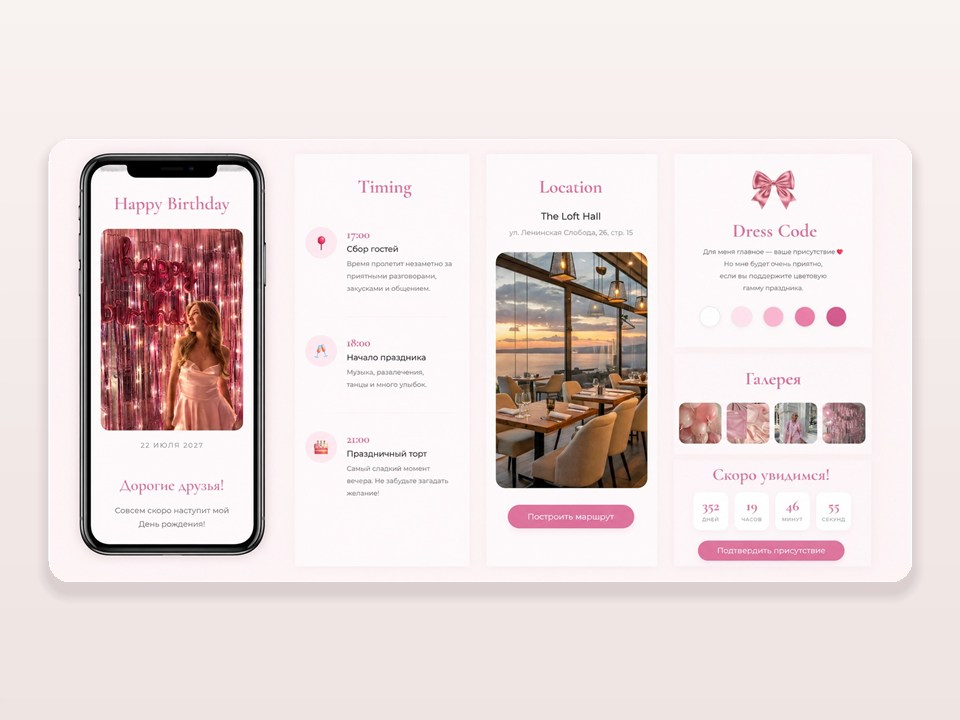
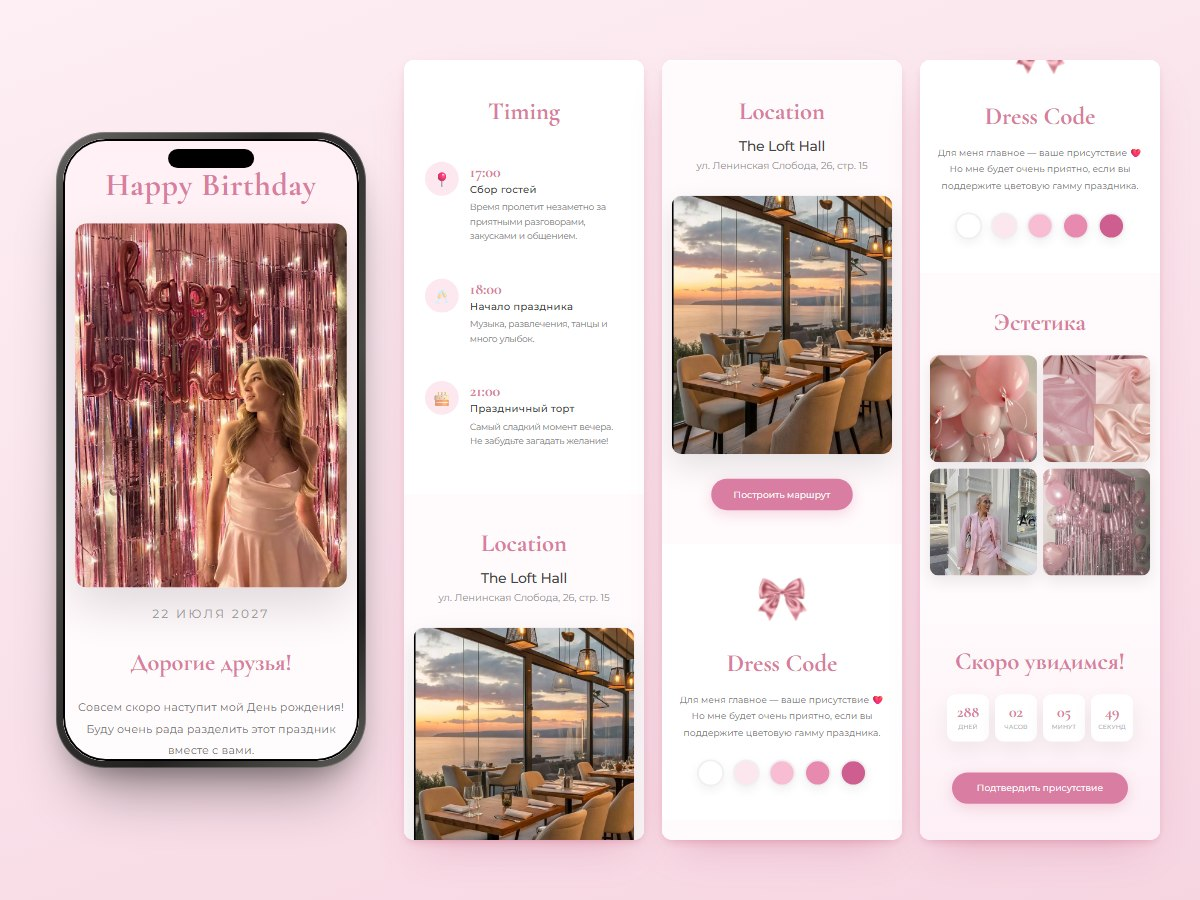
Обложки шаблонов в стиле Birthday классика, hero на весь экран, демо «Операция день рождения» в веере

diff --git a/tools/mockup.html b/tools/mockup.html
@@ -1,0 +1,40 @@
+<!doctype html>
+<html lang="ru"><head><meta charset="utf-8"><title>mockup</title>
+<style>
+*{margin:0;box-sizing:border-box}
+html,body{width:1200px;height:900px;overflow:hidden}
+body{background:radial-gradient(70% 60% at 50% 45%,var(--c2),var(--c1));position:relative;font-family:sans-serif}
+.glow{position:absolute;left:50%;top:50%;width:760px;height:760px;transform:translate(-50%,-50%);border-radius:50%;background:var(--c3);opacity:.55;filter:blur(90px)}
+.ph{position:absolute;width:var(--w);aspect-ratio:390/800;padding:7px;border-radius:15.7%/7.7%;
+ background:linear-gradient(145deg,#6c6a66,#2b2a28 18%,#4a4845 50%,#232220 82%,#5e5c58);
+ box-shadow:inset 0 0 0 1px rgba(255,255,255,.22),0 50px 70px -20px rgba(0,0,0,.45),0 18px 30px -10px rgba(0,0,0,.3)}
+.sc{position:relative;width:100%;height:100%;overflow:hidden;border-radius:14.4%/7%;background:#000}
+.sc::before{content:"";position:absolute;z-index:3;top:1.6%;left:50%;width:29%;height:3.1%;transform:translateX(-50%);border-radius:99px;background:#000}
+.sc::after{content:"";position:absolute;inset:0;z-index:3;border-radius:inherit;box-shadow:inset 0 0 0 2px #000;pointer-events:none}
+iframe{position:absolute;top:0;left:0;border:0;width:390px;height:800px;transform-origin:0 0;background:#fff}
+#p1{--w:250px;left:178px;top:150px;transform:rotate(-7deg);z-index:1}
+#p2{--w:330px;left:435px;top:70px;z-index:3}
+#p3{--w:250px;left:772px;top:150px;transform:rotate(7deg);z-index:1}
+</style></head><body>
+<div class="glow"></div>
+<div class="ph" id="p1"><div class="sc"><iframe></iframe></div></div>
+<div class="ph" id="p2"><div class="sc"><iframe></iframe></div></div>
+<div class="ph" id="p3"><div class="sc"><iframe></iframe></div></div>
+<script>
+const q=new URLSearchParams(location.search);
+const r=document.documentElement.style;
+r.setProperty('--c1',q.get('c1')||'#f3dcd6');r.setProperty('--c2',q.get('c2')||'#fbefeb');r.setProperty('--c3',q.get('c3')||'#e9b6aa');
+const url=q.get('d'), sc=(q.get('s')||'0;900;1800').split(';');
+['p1','p2','p3'].forEach((id,i)=>{
+  const sc_el=document.querySelector('#'+id+' .sc'), f=sc_el.querySelector('iframe');
+  const k=sc_el.clientWidth/390; f.style.transform='scale('+k+')';
+  f.style.height=(sc_el.clientHeight/k)+'px';
+  f.src='../'+url+'index.html';
+  f.onload=()=>{ const w=f.contentWindow, d=f.contentDocument;
+    d.documentElement.style.scrollBehavior='auto'; d.body.style.scrollBehavior='auto';
+    const target=[sc[1],sc[0],sc[2]][i];
+    const y=()=>/^\d+$/.test(target)?+target:d.querySelector(target).getBoundingClientRect().top+w.scrollY-8;
+    let t=0; const step=()=>{ const Y=y(); t=Math.min(Y,t+300); w.scrollTo(0,t); if(t<Y) setTimeout(step,250); else setTimeout(()=>w.scrollTo(0,Y),2500)}; setTimeout(step,300);
+  };
+});
+</script></body></html>

diff --git a/tools/mockup2.html b/tools/mockup2.html
@@ -1,0 +1,37 @@
+<!doctype html>
+<html lang="ru"><head><meta charset="utf-8"><title>mockup2</title>
+<style>
+*{margin:0;box-sizing:border-box}
+html,body{width:1200px;height:900px;overflow:hidden}
+body{background:linear-gradient(160deg,var(--c2),var(--c1));position:relative}
+.ph{position:absolute;left:56px;top:132px;width:310px;aspect-ratio:390/800;padding:7px;border-radius:15.7%/7.7%;
+ background:linear-gradient(145deg,#6c6a66,#2b2a28 18%,#4a4845 50%,#232220 82%,#5e5c58);
+ box-shadow:inset 0 0 0 1px rgba(255,255,255,.22),0 40px 60px -24px rgba(0,0,0,.45),0 14px 24px -10px rgba(0,0,0,.25)}
+.sc{position:relative;width:100%;height:100%;overflow:hidden;border-radius:14.4%/7%;background:#000}
+.sc::before{content:"";position:absolute;z-index:3;top:1.6%;left:50%;width:29%;height:3.1%;transform:translateX(-50%);border-radius:99px;background:#000}
+.sc::after{content:"";position:absolute;inset:0;z-index:3;border-radius:inherit;box-shadow:inset 0 0 0 2px #000;pointer-events:none}
+.pn{position:absolute;top:60px;width:240px;height:780px;overflow:hidden;border-radius:10px;background:#fff;
+ box-shadow:0 1px 0 rgba(255,255,255,.6) inset,0 18px 40px -18px var(--sh),0 4px 10px -4px var(--sh)}
+iframe{position:absolute;top:0;left:0;border:0;width:390px;transform-origin:0 0;background:#fff}
+#p0{} #p1{left:404px} #p2{left:662px} #p3{left:920px}
+</style></head><body>
+<div class="ph" id="p0"><div class="sc"><iframe></iframe></div></div>
+<div class="pn" id="p1"><iframe></iframe></div>
+<div class="pn" id="p2"><iframe></iframe></div>
+<div class="pn" id="p3"><iframe></iframe></div>
+<script>
+const q=new URLSearchParams(location.search), r=document.documentElement.style;
+r.setProperty('--c1',q.get('c1'));r.setProperty('--c2',q.get('c2'));r.setProperty('--sh',q.get('c3'));
+const url=q.get('d'), sc=q.get('s').split(';');
+['p0','p1','p2','p3'].forEach((id,i)=>{
+  const box=document.getElementById(id), f=box.querySelector('iframe'), host=i?box:box.querySelector('.sc');
+  const k=host.clientWidth/390; f.style.transform='scale('+k+')'; f.style.height=(host.clientHeight/k)+'px';
+  f.src='../'+url+'index.html';
+  f.onload=()=>{ const w=f.contentWindow, d=f.contentDocument;
+    d.documentElement.style.scrollBehavior='auto'; d.body.style.scrollBehavior='auto';
+    const tg=sc[i];
+    const y=()=>/^\d+$/.test(tg)?+tg:d.querySelector(tg).getBoundingClientRect().top+w.scrollY-4;
+    let t=0; const step=()=>{ const Y=y(); t=Math.min(Y,t+300); w.scrollTo(0,t); if(t<Y) setTimeout(step,250); else setTimeout(()=>w.scrollTo(0,Y),2500)}; setTimeout(step,300);
+  };
+});
+</script></body></html>

diff --git a/css/style.css b/css/style.css
@@ -647,7 +647,7 @@ section{
     width:100%;
     height:100%;
     object-fit:cover;
-    object-position:left center;
+    object-position:center;
     transition:transform .8s cubic-bezier(.2,.7,.2,1);
 }
 
@@ -1753,6 +1753,43 @@ html{ scroll-padding-top:80px; }
 .hero-stamp{
     left:2%;
     bottom:2%;
+}
+
+/* ---------- Hero: на компьютере целиком в один экран ---------- */
+
+@media (min-width:993px){
+
+    .hero{
+        min-height:100vh;
+        min-height:100svh;
+        display:flex;
+        align-items:center;
+        padding:96px 0 32px;
+    }
+
+    .hero > .container{ width:min(1200px,calc(100% - 48px)); }
+
+    .hero h1{
+        font-size:clamp(44px,min(7vw,11svh),104px);
+        margin-bottom:clamp(16px,3svh,36px);
+    }
+
+    .hero-subtitle{ margin-bottom:clamp(14px,3svh,34px); }
+
+    .hero p{ margin-bottom:clamp(20px,4svh,44px); }
+
+    .hero-facts{
+        margin-top:clamp(24px,6svh,70px);
+        padding-top:clamp(14px,2.5svh,28px);
+    }
+
+    .hero-facts strong{ font-size:clamp(28px,4.5svh,38px); }
+
+    .hero-phone{
+        width:auto;
+        max-width:100%;
+        max-height:calc(100svh - 150px);
+    }
 }
 
 /* ===========================================

diff --git a/js/app.js b/js/app.js
@@ -262,24 +262,15 @@ function renderTemplates(data) {
 
         card.dataset.cat = template.category;
 
-        // Есть демо — показываем его живым в рамке телефона, иначе обложку
-        const preview = template.demoUrl
-            ? `<div class="device template-phone">
-                    <div class="screen"><iframe src="${template.demoUrl}" title="" tabindex="-1" scrolling="no" loading="lazy"></iframe></div>
-               </div>`
-            : `<img
+        card.innerHTML = `
+
+            <div class="template-image">
+
+                <img
                     src="${template.cover || template.image}"
                     alt="${template.title}"
                     loading="lazy"
-               >`;
-
-        card.innerHTML = `
-
-            <div class="template-image ${template.demoUrl ? "has-phone" : ""}">
-
-                ${template.demoUrl ? `<span class="demo-badge">Живое демо</span>` : ""}
-
-                ${preview}
+                >
 
             </div>
 

diff --git a/index.html b/index.html
@@ -177,7 +177,7 @@
             <div class="hero-right">
 
                 <div class="device fan-phone fan-left" aria-hidden="true">
-                    <div class="screen"><iframe src="demo/birthday-pink/" title="" tabindex="-1" scrolling="no" loading="lazy"></iframe></div>
+                    <div class="screen"><iframe src="demo/operation-birthday/" title="" tabindex="-1" scrolling="no" loading="lazy"></iframe></div>
                 </div>
 
                 <img
